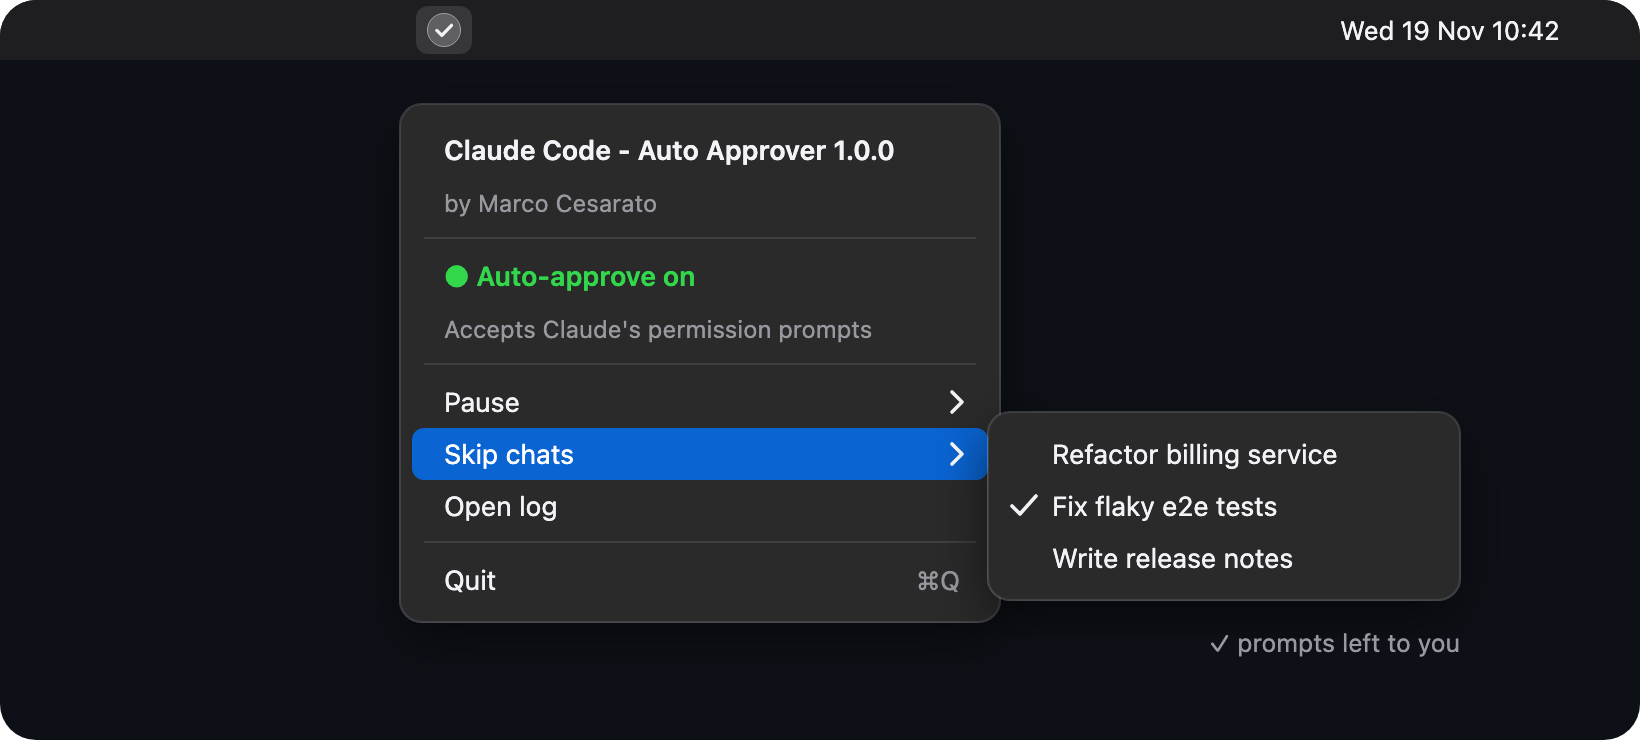
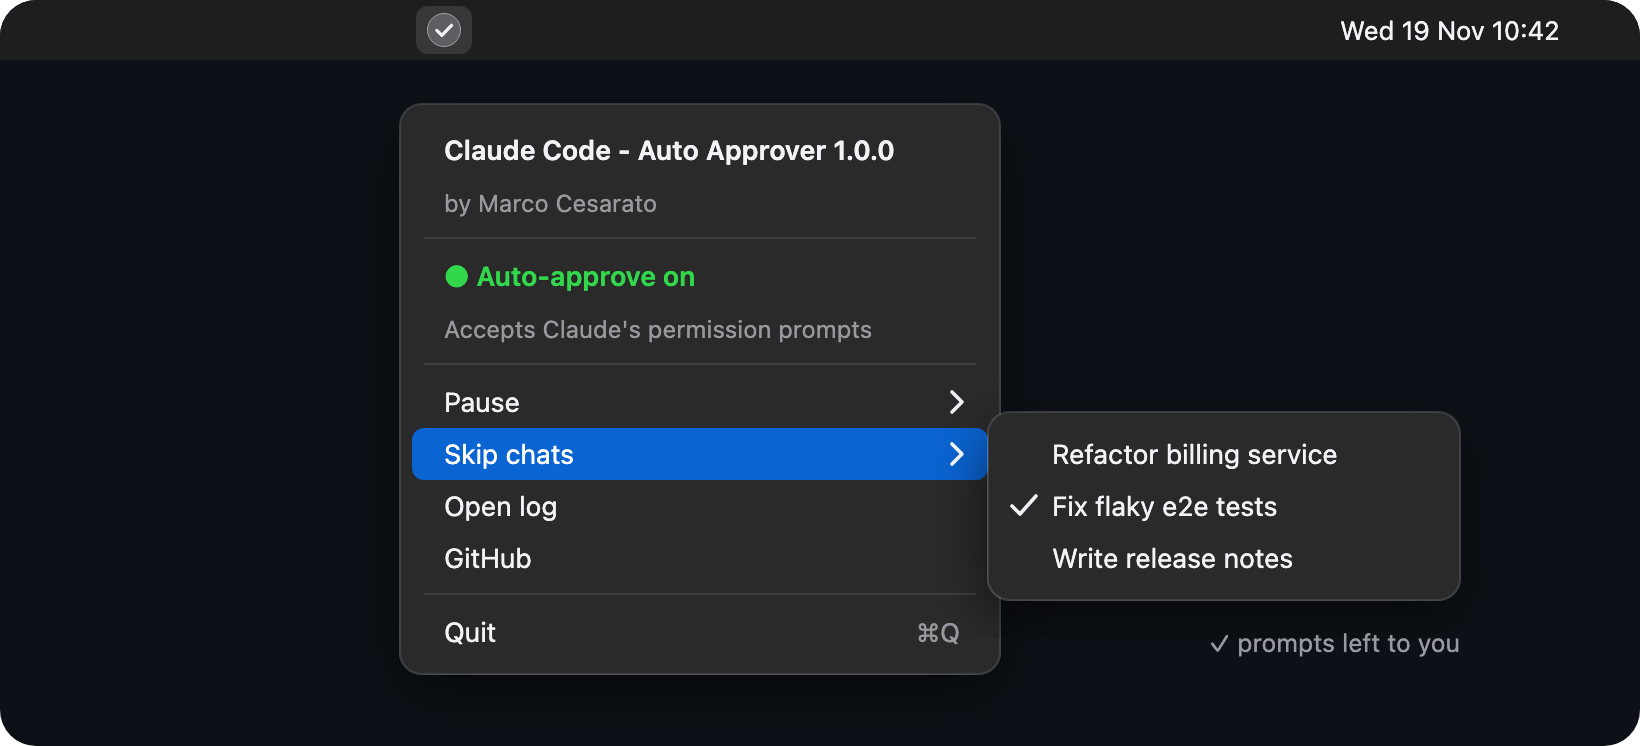
feat: a GitHub item in the menu opens the project's page

diff --git a/macos/sources/app/AppDelegate.swift b/macos/sources/app/AppDelegate.swift
@@ -64,6 +64,7 @@ final class AppDelegate: NSObject, NSApplicationDelegate, NSMenuDelegate {
         skipItem.submenu = skipMenu
         menu.addItem(skipItem)
         menu.addItem(item(L10n.t(.openLog), #selector(openLog)))
+        menu.addItem(item("GitHub", #selector(openRepository)))
         menu.addItem(.separator())
         menu.addItem(item(L10n.t(.quit), #selector(quit), key: "q"))
 
@@ -137,5 +138,6 @@ final class AppDelegate: NSObject, NSApplicationDelegate, NSMenuDelegate {
         log(sender.state == .on ? "▶ Approving \"\(sender.title)\" again" : "⏭ Skipping \"\(sender.title)\"")
     }
     @objc private func openLog() { NSWorkspace.shared.open(URL(fileURLWithPath: Settings.logPath)) }
+    @objc private func openRepository() { NSWorkspace.shared.open(Product.repository) }
     @objc private func quit() { NSApp.terminate(nil) }
 }

diff --git a/macos/sources/core/Localization.swift b/macos/sources/core/Localization.swift
@@ -3,6 +3,7 @@ import Foundation
 public enum Product {
     public static let name = "Claude Code - Auto Approver"
     public static let author = "Marco Cesarato"
+    public static let repository = URL(string: "https://github.com/marcocesarato/claude-code-auto-approver")!
 }
 
 /// The app's own words, in the first of the user's languages it has; English otherwise.

diff --git a/docs/make-art.py b/docs/make-art.py
@@ -46,7 +46,7 @@ def menu(dark):
     x0, y0, mw = 200, 52, 300
     rows = [("title", "Claude Code - Auto Approver 1.0.0"), ("dim", "by Marco Cesarato"), ("sep",),
             ("status", "● Auto-approve on"), ("dim", "Accepts Claude's permission prompts"), ("sep",),
-            ("sub", "Pause"), ("subsel", "Skip chats"), ("item", "Open log"), ("sep",), ("item", "Quit", "⌘Q")]
+            ("sub", "Pause"), ("subsel", "Skip chats"), ("item", "Open log"), ("item", "GitHub"), ("sep",), ("item", "Quit", "⌘Q")]
     y, parts, sel_y = y0 + 10, [], 0
     for r in rows:
         kind = r[0]

diff --git a/README.md b/README.md
@@ -46,7 +46,7 @@ notification of a session running in the background.
 <p align="center">
   <picture>
     <source media="(prefers-color-scheme: dark)" srcset="docs/menu-dark.png">
-    <img src="docs/menu-light.png" alt="The Auto Approver menu: status, Pause, Skip chats, Open log, Quit" width="720">
+    <img src="docs/menu-light.png" alt="The Auto Approver menu: status, Pause, Skip chats, Open log, GitHub, Quit" width="720">
   </picture>
 </p>
 
@@ -154,6 +154,7 @@ outline** while it is paused or lacks permission.
 | **Resume** | Shown while paused. Turns approving back on now. |
 | **Skip chats ▸** | Lists the chats open in the window and those running or waiting in its sidebar. A ticked chat is left to you. |
 | **Open log** | Opens what the app saw and pressed. |
+| **GitHub** | Opens the project's page, for releases and issues. |
 
 A skipped chat is known by its title. If Claude renames the chat, the skip ends, and two
 chats with the same title are both skipped.

diff --git a/CHANGELOG.md b/CHANGELOG.md
@@ -1,5 +1,9 @@
 # Changelog
 
+## Unreleased
+
+- The menu has a **GitHub** item that opens the project's page.
+
 ## 1.0.1
 
 - New app icon: a woodpecker, made in Icon Composer, so macOS 26 shows it in Liquid Glass.
